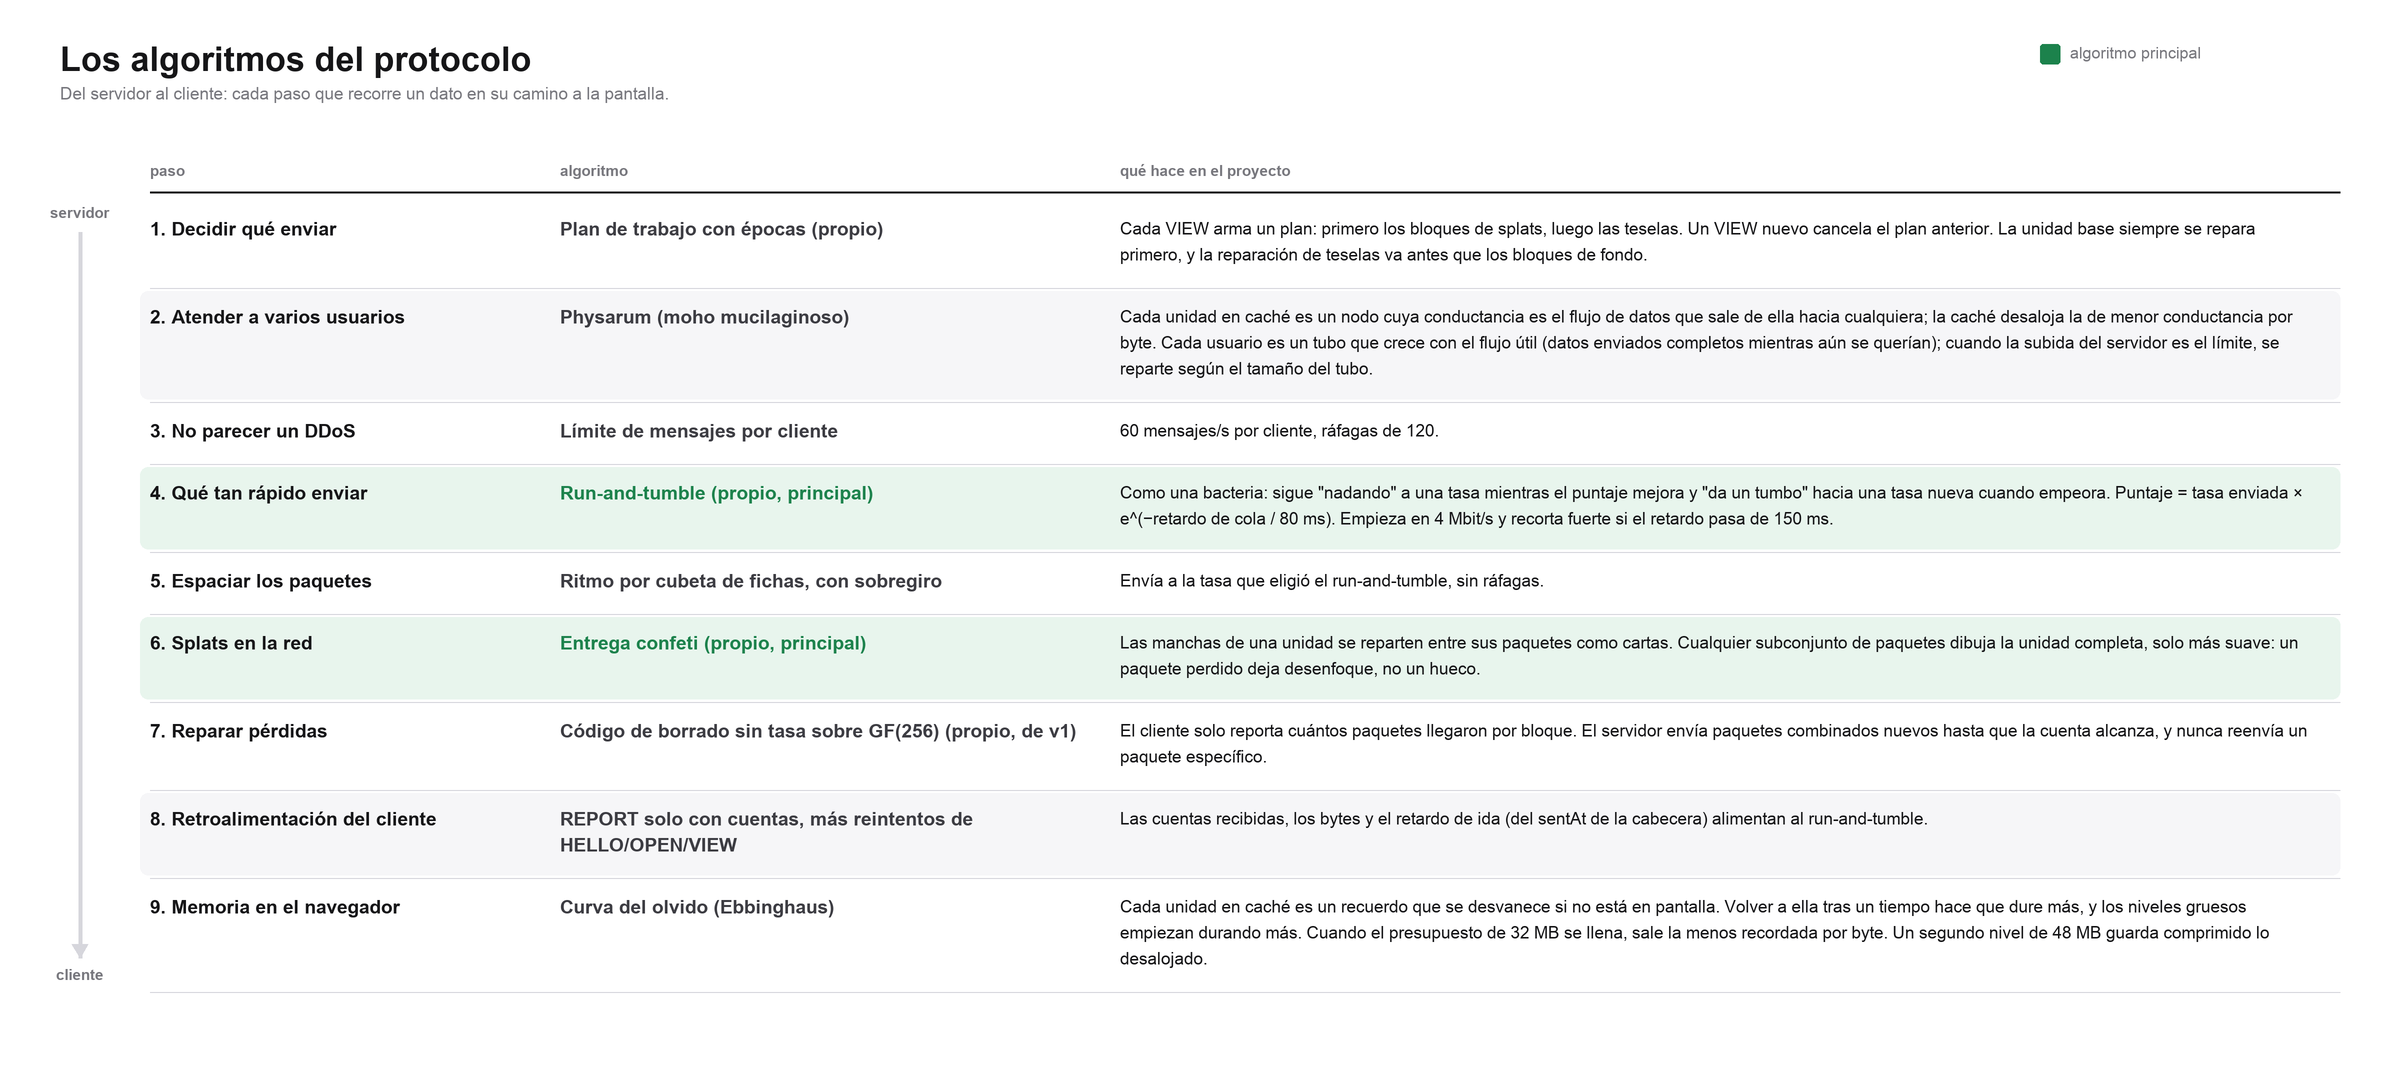
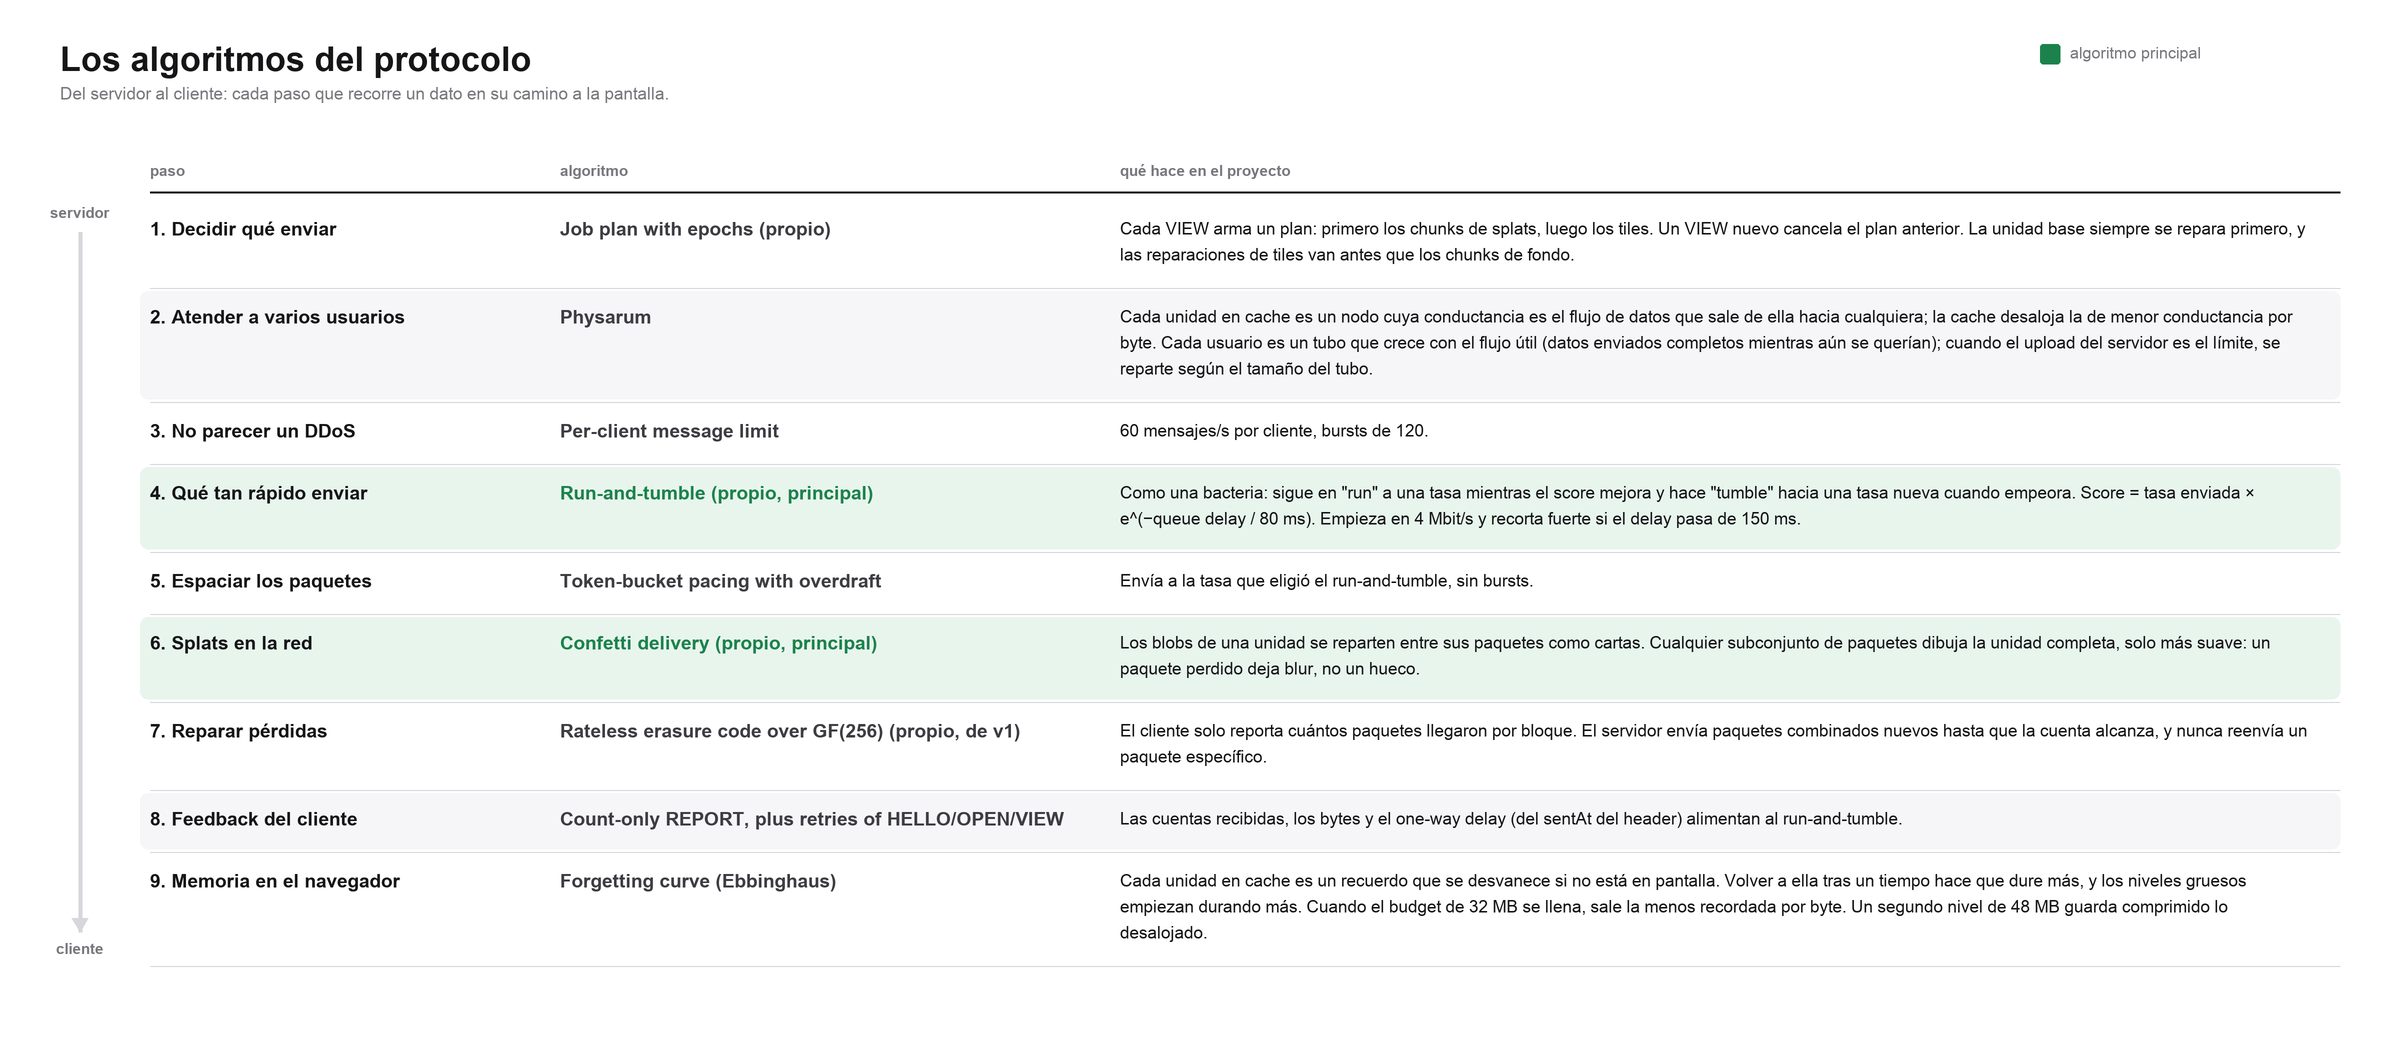
Protocol figure, Spanish: algorithm names and technical terms stay in English

diff --git a/splat-pyramid/tools/fig_protocol.py b/splat-pyramid/tools/fig_protocol.py
@@ -45,6 +45,8 @@ ROWS = [
      "full, the least remembered per byte goes. A second level of 48 MB keeps evicted data compressed.", False),
 ]
 
+# Spanish: algorithm names and the technical English terms (splat, chunk, tile, blob, cache,
+# upload, run-and-tumble...) stay in English; only the prose around them is translated.
 SPANISH = {
     "The protocol's algorithms": "Los algoritmos del protocolo",
     "From the server to the client: each step a piece of data meets on its way to the screen.":
@@ -52,63 +54,62 @@ SPANISH = {
     "step": "paso", "algorithm": "algoritmo", "what it does in the project": "qué hace en el proyecto",
     "main algorithm": "algoritmo principal", "server": "servidor", "client": "cliente",
     "1. Decide what to send": "1. Decidir qué enviar",
-    "Job plan with epochs (own)": "Plan de trabajo con épocas (propio)",
+    "Job plan with epochs (own)": "Job plan with epochs (propio)",
     "Each VIEW builds a plan: splat chunks first, then tiles. A new VIEW cancels the old plan. "
     "The base unit is always repaired first, and tile repairs come before background chunks.":
-        "Cada VIEW arma un plan: primero los bloques de splats, luego las teselas. Un VIEW nuevo cancela "
-        "el plan anterior. La unidad base siempre se repara primero, y la reparación de teselas va antes "
-        "que los bloques de fondo.",
+        "Cada VIEW arma un plan: primero los chunks de splats, luego los tiles. Un VIEW nuevo cancela el "
+        "plan anterior. La unidad base siempre se repara primero, y las reparaciones de tiles van antes "
+        "que los chunks de fondo.",
     "2. Serve several users": "2. Atender a varios usuarios",
-    "Physarum": "Physarum (moho mucilaginoso)",
     "Each cached unit is a node whose conductance is the data flowing out of it to anyone; the cache "
     "evicts the least conductance per byte. Each user is a tube that grows with useful flow (data sent "
     "whole while still wanted); when the server's upload is the limit, it is shared by tube size.":
-        "Cada unidad en caché es un nodo cuya conductancia es el flujo de datos que sale de ella hacia "
-        "cualquiera; la caché desaloja la de menor conductancia por byte. Cada usuario es un tubo que crece "
-        "con el flujo útil (datos enviados completos mientras aún se querían); cuando la subida del "
+        "Cada unidad en cache es un nodo cuya conductancia es el flujo de datos que sale de ella hacia "
+        "cualquiera; la cache desaloja la de menor conductancia por byte. Cada usuario es un tubo que crece "
+        "con el flujo útil (datos enviados completos mientras aún se querían); cuando el upload del "
         "servidor es el límite, se reparte según el tamaño del tubo.",
     "3. Not look like a DDoS": "3. No parecer un DDoS",
-    "Per-client message limit": "Límite de mensajes por cliente",
-    "60 messages/s per client, bursts of 120.": "60 mensajes/s por cliente, ráfagas de 120.",
+    "60 messages/s per client, bursts of 120.": "60 mensajes/s por cliente, bursts de 120.",
     "4. How fast to send": "4. Qué tan rápido enviar",
     "Run-and-tumble (own, main)": "Run-and-tumble (propio, principal)",
     "Like a bacterium: it keeps \"running\" at a rate while the score improves and \"tumbles\" to a new "
     "rate when it gets worse. Score = sent rate × e^(−queue delay / 80 ms). It starts at 4 Mbit/s "
     "and cuts hard if delay passes 150 ms.":
-        "Como una bacteria: sigue \"nadando\" a una tasa mientras el puntaje mejora y \"da un tumbo\" hacia "
-        "una tasa nueva cuando empeora. Puntaje = tasa enviada × e^(−retardo de cola / 80 ms). Empieza en "
-        "4 Mbit/s y recorta fuerte si el retardo pasa de 150 ms.",
+        "Como una bacteria: sigue en \"run\" a una tasa mientras el score mejora y hace \"tumble\" hacia "
+        "una tasa nueva cuando empeora. Score = tasa enviada × e^(−queue delay / 80 ms). Empieza en "
+        "4 Mbit/s y recorta fuerte si el delay pasa de 150 ms.",
     "5. Spread the packets out": "5. Espaciar los paquetes",
-    "Token-bucket pacing with overdraft": "Ritmo por cubeta de fichas, con sobregiro",
     "Sends at the rate the tumbler chose, with no bursts.":
-        "Envía a la tasa que eligió el run-and-tumble, sin ráfagas.",
+        "Envía a la tasa que eligió el run-and-tumble, sin bursts.",
     "6. Splats on the wire": "6. Splats en la red",
-    "Confetti delivery (own, main)": "Entrega confeti (propio, principal)",
+    "Confetti delivery (own, main)": "Confetti delivery (propio, principal)",
     "A unit's blobs are dealt across its packets like cards. Any subset of packets still draws the "
     "whole unit, only softer, so a lost packet leaves blur, not a hole.":
-        "Las manchas de una unidad se reparten entre sus paquetes como cartas. Cualquier subconjunto de "
-        "paquetes dibuja la unidad completa, solo más suave: un paquete perdido deja desenfoque, no un hueco.",
+        "Los blobs de una unidad se reparten entre sus paquetes como cartas. Cualquier subconjunto de "
+        "paquetes dibuja la unidad completa, solo más suave: un paquete perdido deja blur, no un hueco.",
     "7. Repair losses": "7. Reparar pérdidas",
-    "Rateless erasure code over GF(256) (own, from v1)": "Código de borrado sin tasa sobre GF(256) (propio, de v1)",
+    "Rateless erasure code over GF(256) (own, from v1)": "Rateless erasure code over GF(256) (propio, de v1)",
     "The client only reports how many packets arrived per block. The server sends new combined "
     "packets until the count is enough, and never resends a specific packet.":
         "El cliente solo reporta cuántos paquetes llegaron por bloque. El servidor envía paquetes "
         "combinados nuevos hasta que la cuenta alcanza, y nunca reenvía un paquete específico.",
-    "8. Client feedback": "8. Retroalimentación del cliente",
-    "Count-only REPORT, plus retries of HELLO/OPEN/VIEW": "REPORT solo con cuentas, más reintentos de HELLO/OPEN/VIEW",
+    "8. Client feedback": "8. Feedback del cliente",
     "Received counts, bytes and one-way delay (from the header's sentAt) are what feed the tumbler.":
-        "Las cuentas recibidas, los bytes y el retardo de ida (del sentAt de la cabecera) alimentan al "
+        "Las cuentas recibidas, los bytes y el one-way delay (del sentAt del header) alimentan al "
         "run-and-tumble.",
     "9. Memory in the browser": "9. Memoria en el navegador",
-    "Forgetting curve (Ebbinghaus)": "Curva del olvido (Ebbinghaus)",
     "Each cached unit is a memory that fades unless it's on screen. Coming back after time away "
     "makes it last longer, and coarse levels start out lasting longer. When the 32 MB budget is "
     "full, the least remembered per byte goes. A second level of 48 MB keeps evicted data compressed.":
-        "Cada unidad en caché es un recuerdo que se desvanece si no está en pantalla. Volver a ella tras "
-        "un tiempo hace que dure más, y los niveles gruesos empiezan durando más. Cuando el presupuesto de "
+        "Cada unidad en cache es un recuerdo que se desvanece si no está en pantalla. Volver a ella tras "
+        "un tiempo hace que dure más, y los niveles gruesos empiezan durando más. Cuando el budget de "
         "32 MB se llena, sale la menos recordada por byte. Un segundo nivel de 48 MB guarda comprimido lo "
         "desalojado.",
 }
+# names that stay as they are
+for name in ("Physarum", "Per-client message limit", "Token-bucket pacing with overdraft",
+             "Count-only REPORT, plus retries of HELLO/OPEN/VIEW", "Forgetting curve (Ebbinghaus)"):
+    SPANISH[name] = name
 
 
 def main():
